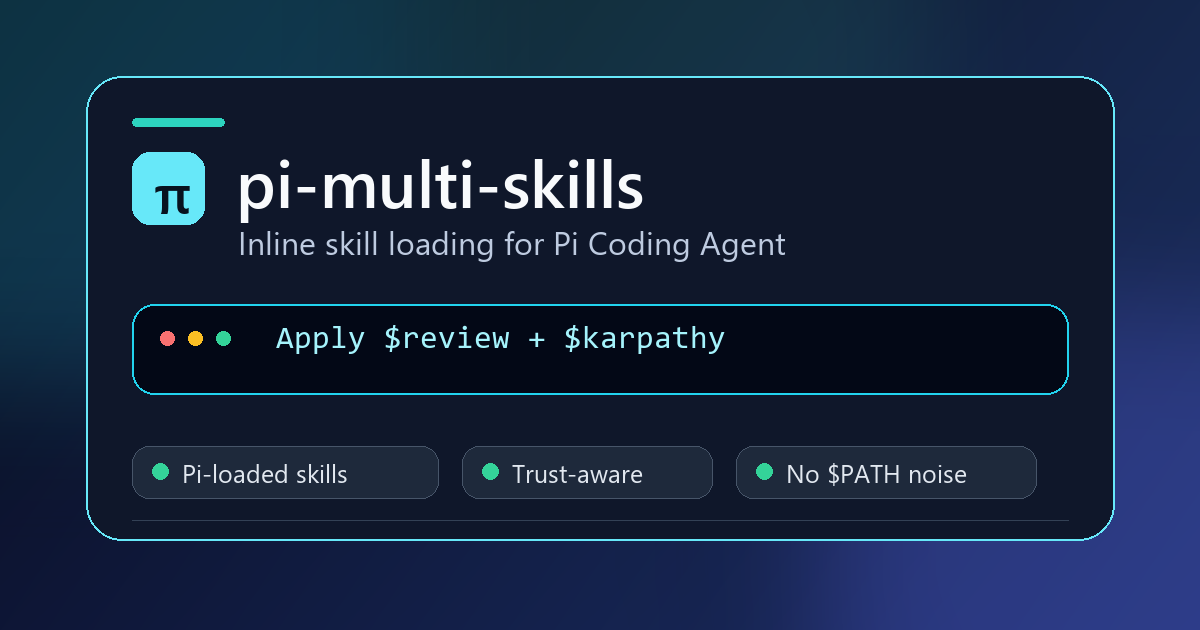
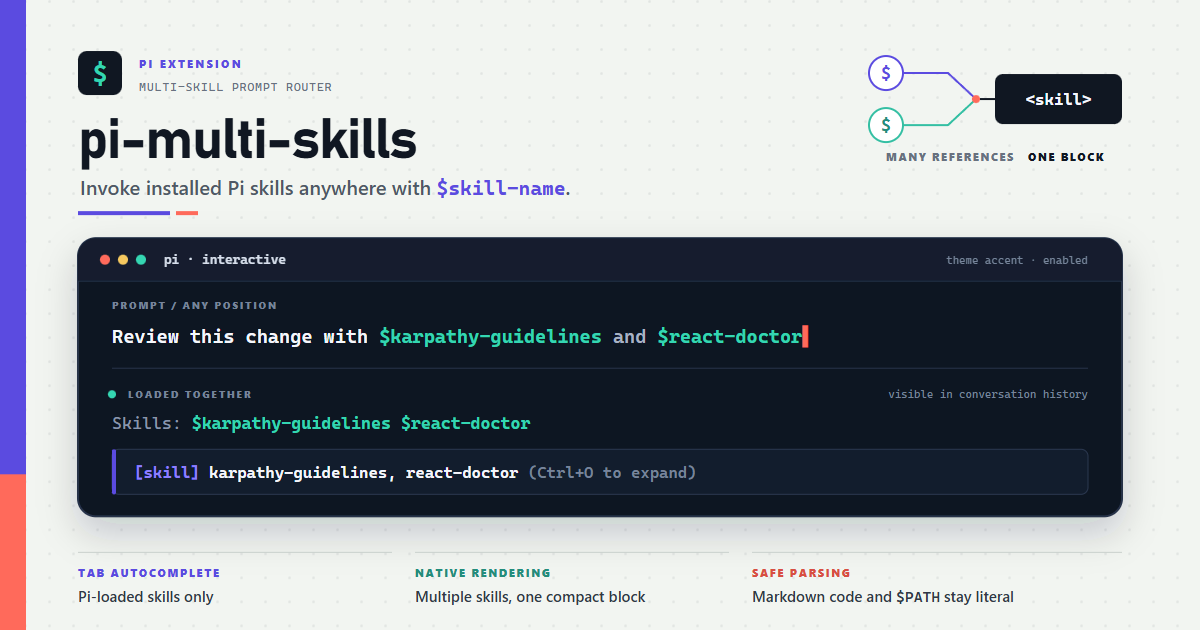
fix: preserve highlighted skill references in v1.2.1

diff --git a/expander.ts b/expander.ts
@@ -5,7 +5,7 @@
 
 import { stripFrontmatter } from "@earendil-works/pi-coding-agent";
 import { readFile } from "node:fs/promises";
-import { parseSkillRefs, replaceSkillRefs } from "./parser";
+import { parseSkillRefs, replaceSkillRefs, type ParsedRef } from "./parser";
 import type { SkillInfo } from "./resolver";
 
 export interface SkillLoadFailure {
@@ -92,11 +92,94 @@ function formatSkillBlock(skillData: SkillData[]): string {
   return formatMergedSkills(skillData);
 }
 
+function isEscapedCharacter(source: string, index: number): boolean {
+  let backslashes = 0;
+  for (let cursor = index - 1; cursor >= 0 && source[cursor] === "\\"; cursor -= 1) {
+    backslashes += 1;
+  }
+  return backslashes % 2 === 1;
+}
+
+/** Avoid adding code delimiters inside Markdown metadata or URL/path tokens. */
+function isUnsafeMentionContext(reference: ParsedRef, source: string): boolean {
+  const lineStart = source.lastIndexOf("\n", reference.index - 1) + 1;
+  let squareDepth = 0;
+  let linkDestinationDepth = 0;
+  let insideAngleBrackets = false;
+
+  for (let cursor = lineStart; cursor < reference.index; cursor += 1) {
+    if (isEscapedCharacter(source, cursor)) continue;
+    const character = source[cursor];
+
+    if (linkDestinationDepth > 0) {
+      if (character === "(") linkDestinationDepth += 1;
+      else if (character === ")") linkDestinationDepth -= 1;
+      continue;
+    }
+
+    if (character === "]" && source[cursor + 1] === "(") {
+      if (squareDepth > 0) squareDepth -= 1;
+      linkDestinationDepth = 1;
+      cursor += 1;
+    } else if (character === "[") {
+      squareDepth += 1;
+    } else if (character === "]" && squareDepth > 0) {
+      squareDepth -= 1;
+    } else if (character === "<") {
+      insideAngleBrackets = true;
+    } else if (character === ">") {
+      insideAngleBrackets = false;
+    }
+  }
+
+  const lineEndIndex = source.indexOf("\n", reference.index);
+  const lineEnd = lineEndIndex === -1 ? source.length : lineEndIndex;
+  const closingSquareBracket = source.indexOf("]", reference.index);
+  const insideDelimitedSquare = squareDepth > 0 &&
+    closingSquareBracket !== -1 &&
+    closingSquareBracket < lineEnd;
+  const closingAngleBracket = source.indexOf(">", reference.index);
+  const insideDelimitedAngle = insideAngleBrackets &&
+    closingAngleBracket !== -1 &&
+    closingAngleBracket < lineEnd;
+  if (insideDelimitedSquare || linkDestinationDepth > 0 || insideDelimitedAngle) {
+    return true;
+  }
+
+  const linePrefix = source.slice(lineStart, reference.index);
+  if (/^ {0,3}\[[^\]\n]+\]:/.test(linePrefix)) return true;
+
+  let tokenStart = reference.index;
+  while (tokenStart > lineStart && !/[\s\[\]()<>"']/.test(source[tokenStart - 1] ?? "")) {
+    tokenStart -= 1;
+  }
+  const tokenPrefix = source.slice(tokenStart, reference.index);
+  const afterReference = reference.index + reference.raw.length;
+  const tokenSuffix = source.slice(afterReference);
+  return /[\\/@]/.test(tokenPrefix) ||
+    /^[a-z][a-z0-9+.-]*:/i.test(tokenPrefix) ||
+    /^[\\/@?#=&]/.test(tokenSuffix) ||
+    /^\.[a-z0-9]/i.test(tokenSuffix);
+}
+
+/**
+ * Inline code uses Pi's theme-aware `mdCode`/accent color. Keep the original
+ * mention unchanged where adding backticks could alter existing Markdown.
+ */
+function formatSkillMention(reference: ParsedRef, source: string): string {
+  const afterReference = reference.index + reference.raw.length;
+  return source[reference.index - 1] === "`" ||
+      source[afterReference] === "`" ||
+      isUnsafeMentionContext(reference, source)
+    ? reference.raw
+    : `\`${reference.raw}\``;
+}
+
 /**
  * Expand every installed `$skill-name` reference in a message.
  *
  * - User formatting is preserved byte-for-byte apart from successful
- *   reference substitutions and explicit `\$` unescaping.
+ *   reference substitutions and matching escaped-reference unescaping.
  * - File failures leave that reference untouched.
  * - Multiple skills retain independent relative-reference directories.
  */
@@ -140,7 +223,7 @@ export async function expandSkillReferences(
   const loaded = skillData.map(({ skill }) => skill);
   const userText = replaceSkillRefs(
     text,
-    loaded.map((skill) => ({ name: skill.name, marker: skill.name })),
+    loaded.map((skill) => ({ name: skill.name, marker: formatSkillMention })),
   );
   const skillBlock = formatSkillBlock(skillData);
 

diff --git a/parser.ts b/parser.ts
@@ -24,9 +24,13 @@ export interface SkillNameLookup {
   has(name: string): boolean;
 }
 
+interface EscapedRef extends ParsedRef {
+  escapeIndex: number;
+}
+
 interface ScanResult {
   refs: ParsedRef[];
-  escapedDollarIndexes: number[];
+  escapedRefs: EscapedRef[];
 }
 
 interface Fence {
@@ -103,14 +107,9 @@ function scanTextLine(
     }
 
     const backslashCount = precedingBackslashCount(text, cursor);
-    if (backslashCount % 2 === 1) {
-      result.escapedDollarIndexes.push(cursor - 1);
-      cursor += 1;
-      continue;
-    }
-
+    const escaped = backslashCount % 2 === 1;
     const previousCharacter = codePointCharacterBefore(text, cursor);
-    if (previousCharacter && BOUNDARY_BLOCKER_RE.test(previousCharacter)) {
+    if (!escaped && previousCharacter && BOUNDARY_BLOCKER_RE.test(previousCharacter)) {
       cursor += 1;
       continue;
     }
@@ -138,11 +137,16 @@ function scanTextLine(
     }
 
     const name = text.slice(nameStart, nameEnd);
-    result.refs.push({
+    const reference = {
       raw: text.slice(cursor, nameEnd),
       name,
       index: cursor,
-    });
+    };
+    if (escaped) {
+      result.escapedRefs.push({ ...reference, escapeIndex: cursor - 1 });
+    } else {
+      result.refs.push(reference);
+    }
     cursor = nameEnd;
   }
 
@@ -151,7 +155,7 @@ function scanTextLine(
 
 /** Scan all candidate references while ignoring Markdown code spans and fences. */
 function scanSkillRefs(text: string): ScanResult {
-  const result: ScanResult = { refs: [], escapedDollarIndexes: [] };
+  const result: ScanResult = { refs: [], escapedRefs: [] };
   let fence: Fence | undefined;
   let inlineTicks = 0;
   let lineStart = 0;
@@ -213,7 +217,8 @@ export function parseSkillRefs(text: string, knownSkills?: SkillNameLookup): Par
 
 export interface SkillReplacement {
   name: string;
-  marker: string;
+  /** Static replacement or a formatter for context-sensitive occurrences. */
+  marker: string | ((reference: ParsedRef, source: string) => string);
 }
 
 interface TextEdit {
@@ -224,8 +229,8 @@ interface TextEdit {
 
 /**
  * Replace known skill references without normalizing any unrelated whitespace.
- * Escaped dollars outside Markdown code are unescaped only when an invocation
- * is actually transformed.
+ * An escaped reference is unescaped only when its skill name also has a
+ * replacement, preserving unrelated shell variables, prices, and paths.
  */
 export function replaceSkillRefs(
   text: string,
@@ -242,12 +247,15 @@ export function replaceSkillRefs(
   for (const ref of scan.refs) {
     const marker = replacementByName.get(ref.name);
     if (marker !== undefined) {
-      edits.push({ start: ref.index, end: ref.index + ref.raw.length, value: marker });
+      const value = typeof marker === "function" ? marker(ref, text) : marker;
+      edits.push({ start: ref.index, end: ref.index + ref.raw.length, value });
     }
   }
 
-  for (const escapedDollarIndex of scan.escapedDollarIndexes) {
-    edits.push({ start: escapedDollarIndex, end: escapedDollarIndex + 1, value: "" });
+  for (const escapedRef of scan.escapedRefs) {
+    if (replacementByName.has(escapedRef.name)) {
+      edits.push({ start: escapedRef.escapeIndex, end: escapedRef.escapeIndex + 1, value: "" });
+    }
   }
 
   edits.sort((left, right) => right.start - left.start);

diff --git a/README.md b/README.md
@@ -27,7 +27,7 @@ pi install npm:pi-multi-skills
 From a reproducible GitHub release:
 
 ```bash
-pi install git:github.com/QuangThai/pi-multi-skills@v1.2.0
+pi install git:github.com/QuangThai/pi-multi-skills@v1.2.1
 ```
 
 Reload Pi and verify discovery:
@@ -50,6 +50,8 @@ A bare invocation also works:
 ```text
 $interview-me
 ```
+
+After submission, each successfully loaded `$skill-name` stays visible with its `$` sigil and uses Pi's theme accent color. Failed references remain unstyled and are accompanied by an error notification, so the transcript does not imply that they loaded successfully.
 
 Names beginning with a digit are supported when Pi has loaded that skill:
 
@@ -74,7 +76,7 @@ Apply $code- [Tab]
 
 - Inline code and fenced code are not scanned: `` `$code-review` `` stays unchanged.
 - Prefix a dollar with `\` when an installed skill name should remain literal: `\$code-review`.
-- Unknown names and ordinary variables such as `$PATH`, `$100`, or `$not-installed` remain unchanged.
+- Unknown names and ordinary variables such as `$PATH`, `$100`, or `$not-installed` remain unchanged; their preceding backslashes are also preserved when another skill is invoked.
 - Outside Markdown code, an exact lowercase match to an installed skill is intentionally treated as an invocation; escape it when writing shell/PHP text without a code fence.
 - Messages injected by another extension are not transformed. Interactive and RPC input are supported.
 
@@ -91,7 +93,7 @@ Apply $code- [Tab]
 |---|---|---|
 | 1 | `resolver.ts` | Builds a cached, filesystem-free registry from Pi's loaded `/skill:name` commands |
 | 2 | `parser.ts` | Finds installed references outside Markdown code while preserving token boundaries and escapes |
-| 3 | `expander.ts` | Lazily reads only requested skill files and preserves the original user formatting |
+| 3 | `expander.ts` | Lazily reads only requested skill files, preserves surrounding formatting, and marks successful mentions for theme-aware rendering |
 | 4 | `index.ts` | Handles Pi input, commands, notifications, widgets, and autocomplete |
 
 A single reference uses Pi's native structural format:
@@ -105,6 +107,8 @@ References are relative to /path/to/code-review.
 ```
 
 Pi's compact renderer currently recognizes one leading `<skill>` wrapper. Multiple references are therefore placed in one compatible wrapper, with every section carrying its own skill file and relative-reference directory. A failure to read one skill leaves that `$reference` untouched while successfully loaded skills still run.
+
+Successful references in the visible user-message portion are represented as inline-code Markdown, which Pi renders through its `mdCode` theme token (`accent` in the built-in dark and light themes). The backticks are not displayed. This avoids hard-coded terminal colors, keeps `$` as a non-color cue, and works across the tested Pi versions. A mention remains unstyled when adding code delimiters would alter surrounding Markdown metadata, a URL/path token, or an adjacent code span.
 
 The extension warns when combined skill bodies exceed 50,000 characters so an accidental invocation does not silently consume excessive model context.
 
@@ -133,7 +137,7 @@ The E2E suite:
 - Executes the real extension factory and registered input handler
 - Parses transformed output with Pi's exported `parseSkillBlock`
 - Loads `index.ts` through Pi's real Jiti loader and transforms input through Pi's real `ExtensionRunner` in a subprocess
-- Covers multiline formatting, independent multi-skill roots, partial file failures, RPC images, autocomplete delegation/capping, and transient UI state
+- Covers multiline formatting, independent multi-skill roots, partial file failures, RPC images, autocomplete delegation/capping, transient UI state, Markdown/URL safety, and real dark/light Pi user-message rendering
 
 CI verifies Node 22.19 and Node 24 on Linux and Windows, including the minimum tested Pi 0.80.2 and Pi's latest release. See [CHANGELOG.md](CHANGELOG.md) for release notes and [RELEASING.md](RELEASING.md) for the manual maintainer release checklist.
 

diff --git a/CHANGELOG.md b/CHANGELOG.md
@@ -2,6 +2,23 @@
 
 All notable changes to this project are documented here.
 
+## [1.2.1] - 2026-09-12
+
+### Fixed
+
+- Keep the `$` sigil visible after submission and render successfully loaded skill mentions with Pi's theme-native `mdCode` accent color.
+- Leave failed and escaped references visually unstyled so the transcript does not imply that they loaded successfully.
+- Avoid introducing code markers that would alter existing inline-code spans, Markdown links, autolinks, URLs, or path-like tokens.
+- Preserve unrelated escaped dollars in prices, shell text, and Windows paths when another skill reference is transformed.
+
+### Changed
+
+- Replace the duplicate gallery assets with one accurate 1200×630 package preview and point Pi package metadata to it.
+
+### Quality
+
+- Exercise Pi's real `UserMessageComponent` with built-in dark and light themes and verify repeated, escaped, failed, URL/path, and Markdown-adjacent mention rendering.
+
 ## [1.2.0] - 2026-09-12
 
 ### Fixed
@@ -28,4 +45,5 @@ All notable changes to this project are documented here.
 - Test Node 22.19/24, Windows/Linux, and Pi 0.80.2/0.85.1 in CI.
 - Pin GitHub Actions revisions, add MIT license text, and document a manual npm release checklist.
 
+[1.2.1]: https://github.com/QuangThai/pi-multi-skills/compare/v1.2.0...v1.2.1
 [1.2.0]: https://github.com/QuangThai/pi-multi-skills/compare/v1.1.3...v1.2.0

diff --git a/RELEASING.md b/RELEASING.md
@@ -25,7 +25,8 @@ Publishing is intentionally manual and runs from a maintainer's machine. The rep
 4. Commit the release, then create a tag matching the package version exactly:
 
    ```bash
-   git tag -a v1.2.0 -m "v1.2.0"
+   VERSION=$(node -p "require('./package.json').version")
+   git tag -a "v$VERSION" -m "v$VERSION"
    ```
 
 5. Push the commit and tag, and wait for CI on the tag to pass.
